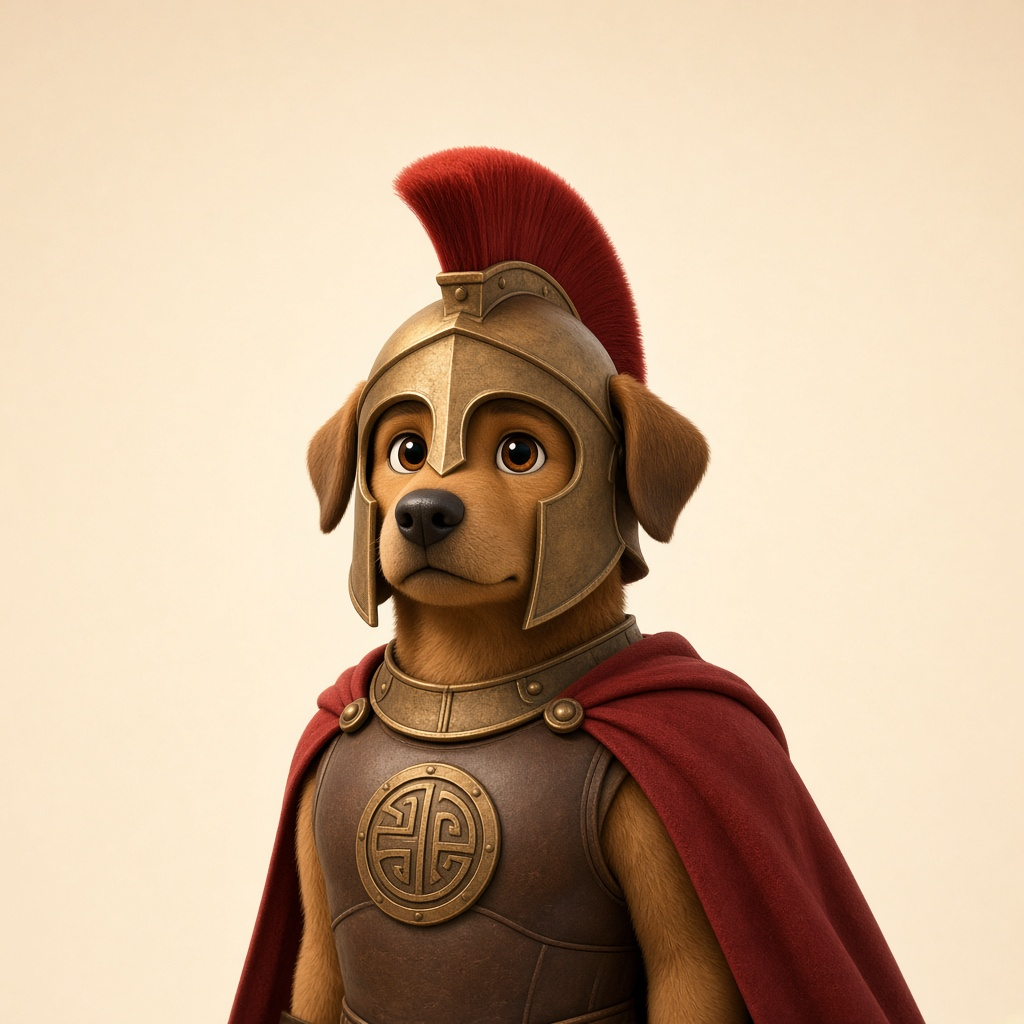
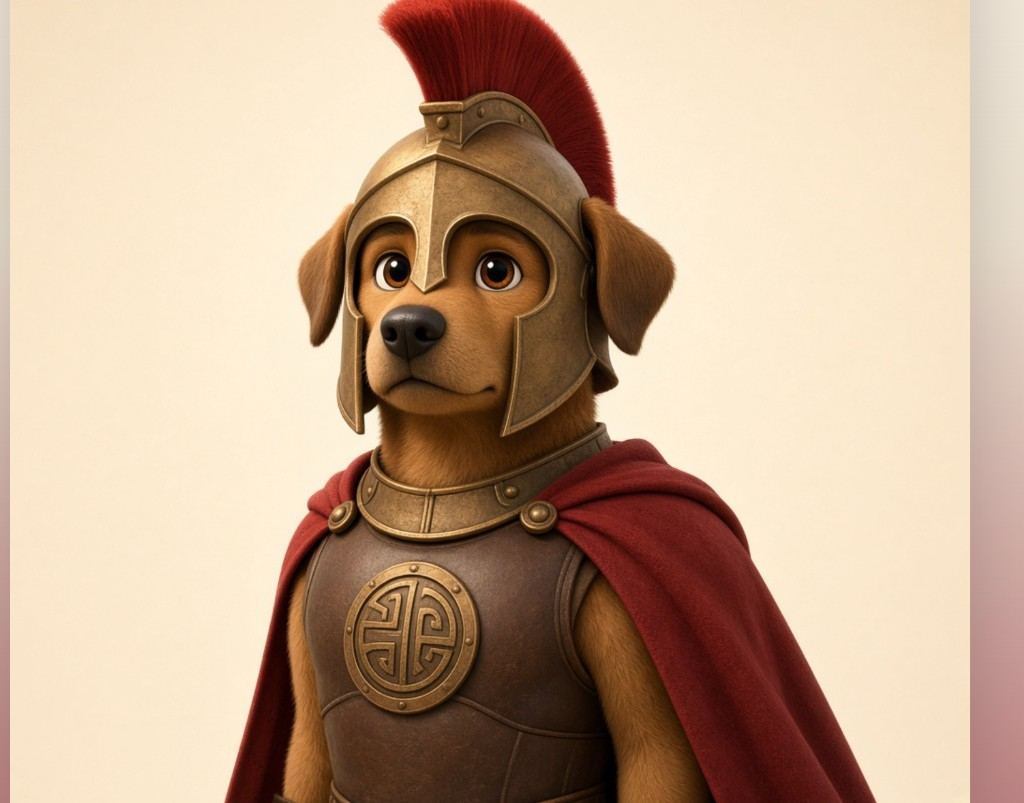
Polish landing hero: space Argo from the tagline, fix invite digit size, use larger HQ bust.
Cormorant was rendering the 2 as an old-style/subscript figure; Outfit + lining nums keeps BL2LTM even. Hero now uses the high-quality original Argo portrait at a larger scale.

diff --git a/docs/site.css b/docs/site.css
@@ -118,14 +118,20 @@ a {
 
 .hero__portrait {
   position: absolute;
-  inset: 0;
+  inset: auto 0 0 0;
   width: 100%;
-  height: 100%;
-  object-fit: cover;
-  object-position: center 28%;
+  height: 92%;
+  object-fit: contain;
+  object-position: center bottom;
   z-index: 2;
-  opacity: 0.92;
+  opacity: 1;
   mix-blend-mode: normal;
+  transform: scale(1.18);
+  transform-origin: center bottom;
+  filter: drop-shadow(0 18px 40px rgba(0, 0, 0, 0.35));
+  /* Feather cream studio plate into the sky so Argo reads larger, not boxed */
+  -webkit-mask-image: radial-gradient(ellipse 72% 78% at 50% 58%, #000 42%, transparent 78%);
+  mask-image: radial-gradient(ellipse 72% 78% at 50% 58%, #000 42%, transparent 78%);
 }
 
 .hero__copy {
@@ -146,23 +152,23 @@ a {
 }
 
 .hero__brand {
-  margin: 0 0 0.35rem;
+  margin: 0 0 1.05rem;
   font-family: var(--display);
   font-size: clamp(4.2rem, 16vw, 7.5rem);
   font-weight: 600;
-  line-height: 0.9;
+  line-height: 1;
   letter-spacing: 0.02em;
   text-shadow: 0 2px 24px rgba(0, 0, 0, 0.35);
   animation: rise 1.15s var(--ease) 0.08s both;
 }
 
 .hero__headline {
-  margin: 0 0 0.75rem;
+  margin: 0.15rem 0 0.85rem;
   font-family: var(--display);
   font-size: clamp(1.65rem, 4.5vw, 2.35rem);
   font-weight: 500;
   font-style: italic;
-  line-height: 1.15;
+  line-height: 1.25;
   max-width: 16ch;
   animation: rise 1.15s var(--ease) 0.16s both;
 }
@@ -182,7 +188,7 @@ a {
 }
 
 .hero__verify-label {
-  margin: 0 0 0.45rem;
+  margin: 0 0 0.85rem;
   font-size: 0.82rem;
   font-weight: 600;
   letter-spacing: 0.08em;
@@ -200,13 +206,16 @@ a {
 
 .hero__code {
   margin: 0;
-  font-family: var(--display);
+  font-family: var(--sans);
   font-size: clamp(2.1rem, 7vw, 3rem);
   font-weight: 600;
-  letter-spacing: 0.06em;
+  letter-spacing: 0.04em;
   line-height: 1.15;
   color: var(--sun);
   text-indent: 0;
+  font-variant-numeric: lining-nums;
+  font-feature-settings: "lnum" 1, "tnum" 0, "onum" 0, "subs" 0, "sups" 0;
+  font-synthesis: none;
 }
 
 .hero__code.is-placeholder {
@@ -555,11 +564,15 @@ a {
   }
 
   .hero__portrait {
-    object-position: 58% center;
-    width: 58%;
-    left: auto;
-    right: 0;
-    mask-image: linear-gradient(90deg, transparent 0%, #000 18%, #000 100%);
+    inset: 0 0 0 auto;
+    width: min(68vw, 780px);
+    height: 100%;
+    object-fit: contain;
+    object-position: right bottom;
+    transform: scale(1.22);
+    transform-origin: right bottom;
+    -webkit-mask-image: radial-gradient(ellipse 70% 85% at 62% 55%, #000 48%, transparent 82%);
+    mask-image: radial-gradient(ellipse 70% 85% at 62% 55%, #000 48%, transparent 82%);
   }
 
   .hero__copy {

diff --git a/docs/index.html b/docs/index.html
@@ -21,7 +21,7 @@
     <div class="hero__sky" aria-hidden="true"></div>
     <div class="hero__sea" aria-hidden="true"></div>
     <div class="hero__sun" aria-hidden="true"></div>
-    <img class="hero__portrait" src="argo.png" width="540" height="1170" alt="" />
+    <img class="hero__portrait" src="argo-hero.jpg" width="1024" height="803" alt="Argo, a brown dog in a crested helmet and red cape" />
 
     <div class="hero__copy">
       <p class="hero__brand">Argo</p>
